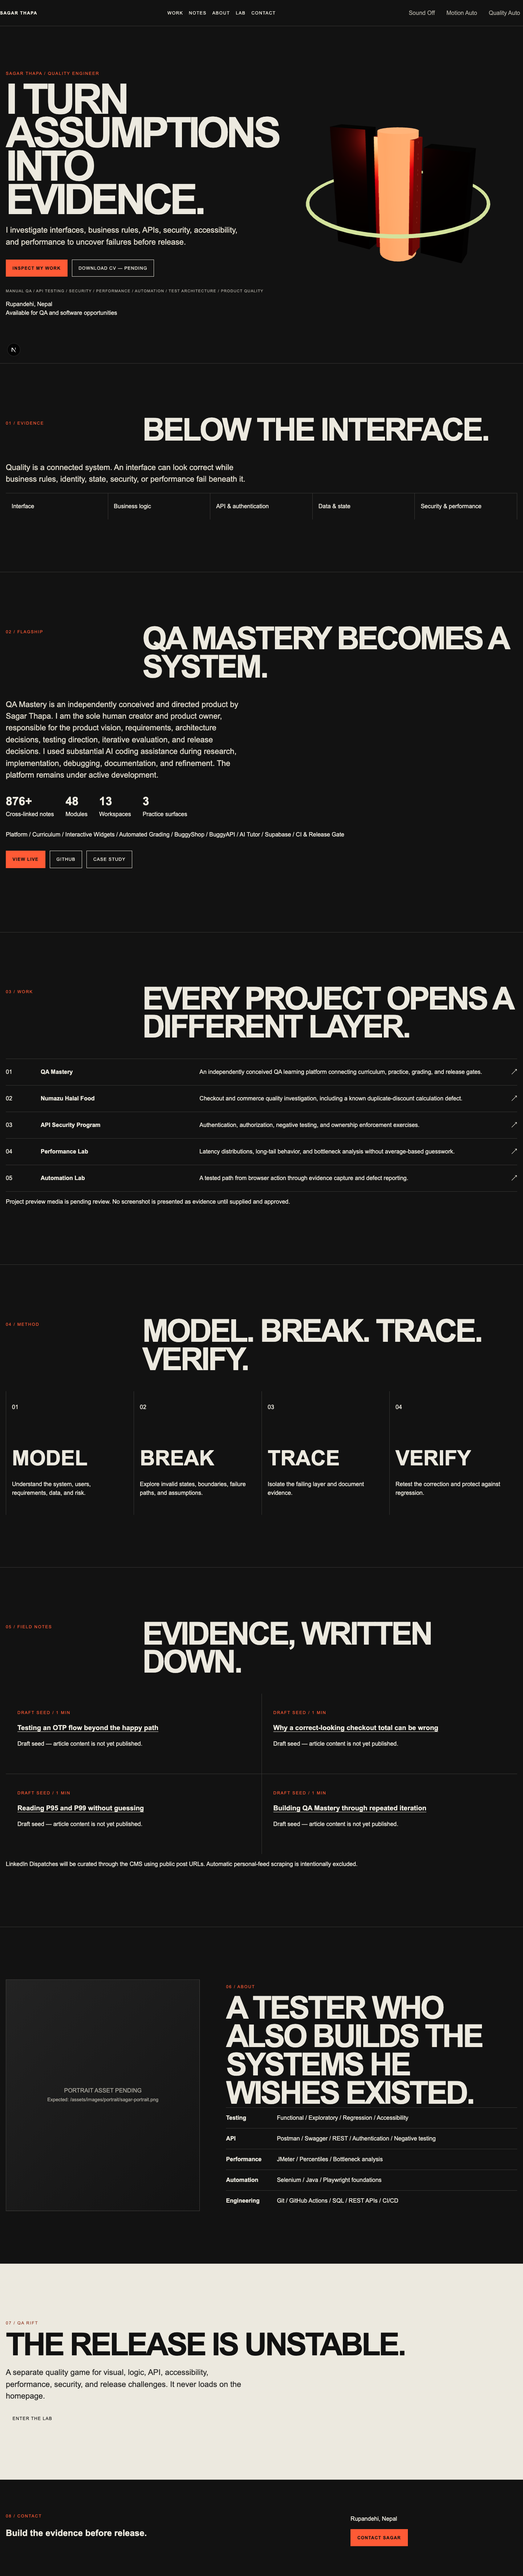
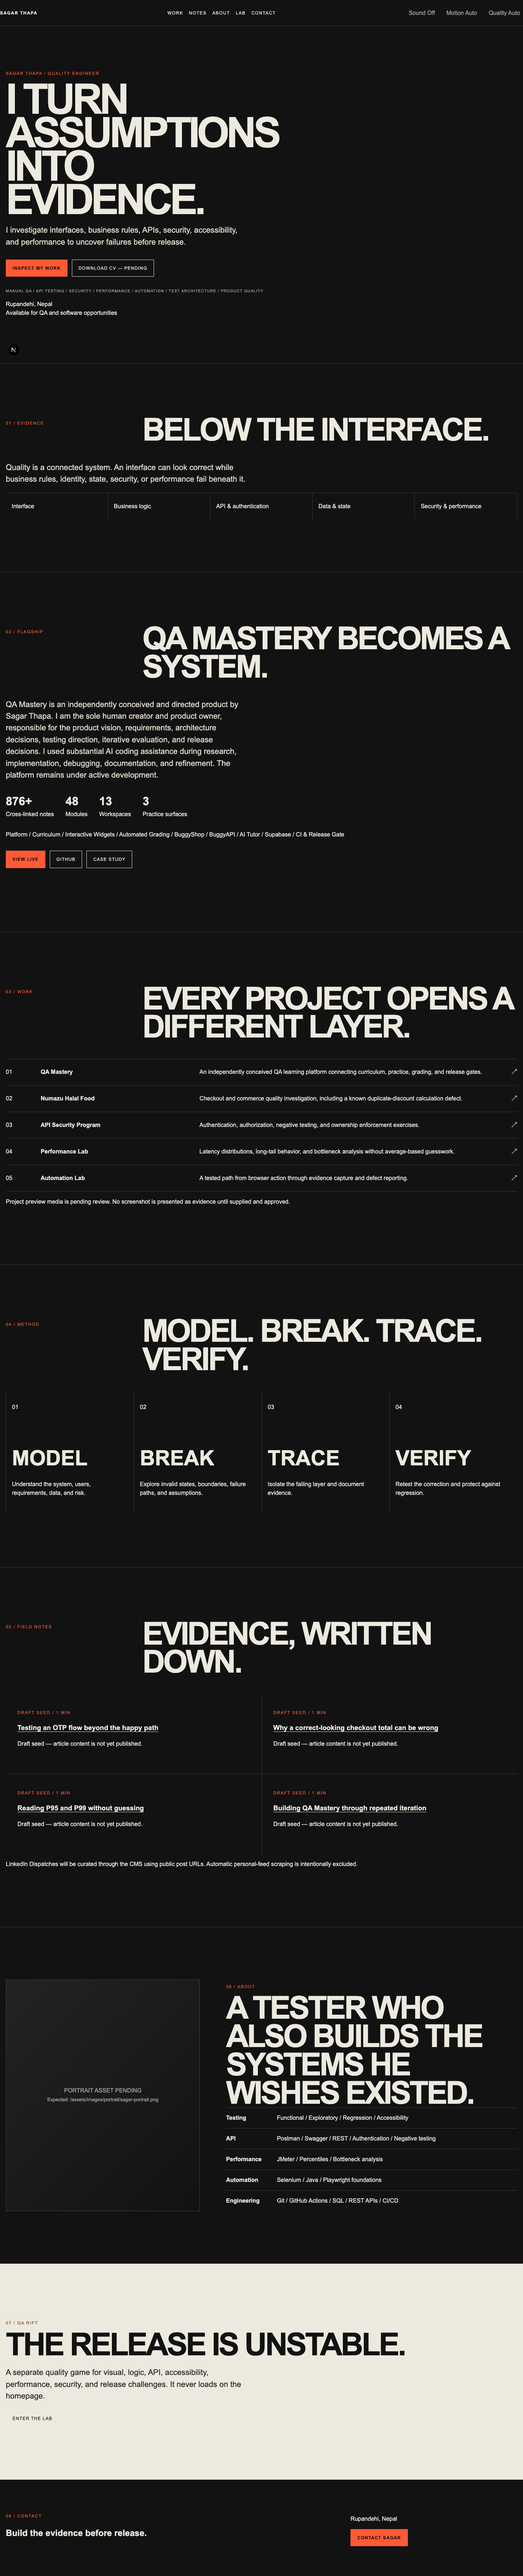
test(ci): verify database browser and accessibility contracts

Changed region(s): [[0.6562, 0.0312, 0.8125, 0.1248], [0.9062, 0.0624, 0.9375, 0.0936], [0.5938, 0.0624, 0.625, 0.0936]]

diff --git a/tests/e2e/smoke.spec.ts b/tests/e2e/smoke.spec.ts
@@ -1,13 +1,49 @@
 import { test, expect } from '@playwright/test';
 import AxeBuilder from '@axe-core/playwright';
-test('homepage exposes core content and no serious axe violations', async ({ page }) => {
+
+const publicRoutes = [
+  '/',
+  '/work',
+  '/work/qa-mastery',
+  '/work/numazu-halal-food',
+  '/work/api-security-testing',
+  '/work/performance-testing',
+  '/work/automation-testing',
+  '/notes',
+  '/notes/testing-otp-beyond-happy-path',
+  '/about',
+  '/contact',
+  '/lab/qa-rift',
+  '/admin/login',
+];
+test('all public routes return successfully', async ({ page }) => {
+  for (const route of publicRoutes) {
+    const response = await page.goto(route);
+    expect(response?.ok(), route).toBe(true);
+  }
+});
+test('homepage navigation and serious axe gate', async ({ page }) => {
   await page.goto('/');
   await expect(page.getByRole('heading', { name: /turn assumptions/i })).toBeVisible();
-  await page.getByRole('link', { name: 'INSPECT MY WORK' }).click();
-  await expect(page).toHaveURL(/\/work$/);
-  await page.goto('/');
   const results = await new AxeBuilder({ page }).analyze();
   expect(
-    results.violations.filter((v) => ['critical', 'serious'].includes(v.impact ?? '')),
+    results.violations.filter((violation) =>
+      ['critical', 'serious'].includes(violation.impact ?? ''),
+    ),
   ).toEqual([]);
+});
+test('mobile navigation is keyboard and touch operable', async ({ page }) => {
+  await page.setViewportSize({ width: 390, height: 844 });
+  await page.goto('/');
+  const menu = page.getByRole('button', { name: 'MENU' });
+  await expect(menu).toHaveAttribute('aria-expanded', 'false');
+  await menu.click();
+  await expect(menu).toHaveAttribute('aria-expanded', 'true');
+  await page.getByRole('link', { name: 'WORK', exact: true }).click();
+  await expect(page).toHaveURL(/\/work$/);
+});
+test('unauthenticated admin routes redirect without exposing CMS navigation', async ({ page }) => {
+  await page.goto('/admin/dashboard');
+  await expect(page).toHaveURL(/\/admin\/login/);
+  await expect(page.getByRole('navigation', { name: 'Admin' })).toHaveCount(0);
 });

diff --git a/apps/web/vitest.setup.ts b/apps/web/vitest.setup.ts
@@ -1,1 +1,10 @@
 import '@testing-library/jest-dom/vitest';
+import { vi } from 'vitest';
+
+const values = new Map<string, string>();
+vi.stubGlobal('localStorage', {
+  getItem: (key: string) => values.get(key) ?? null,
+  setItem: (key: string, value: string) => values.set(key, value),
+  removeItem: (key: string) => values.delete(key),
+  clear: () => values.clear(),
+});
